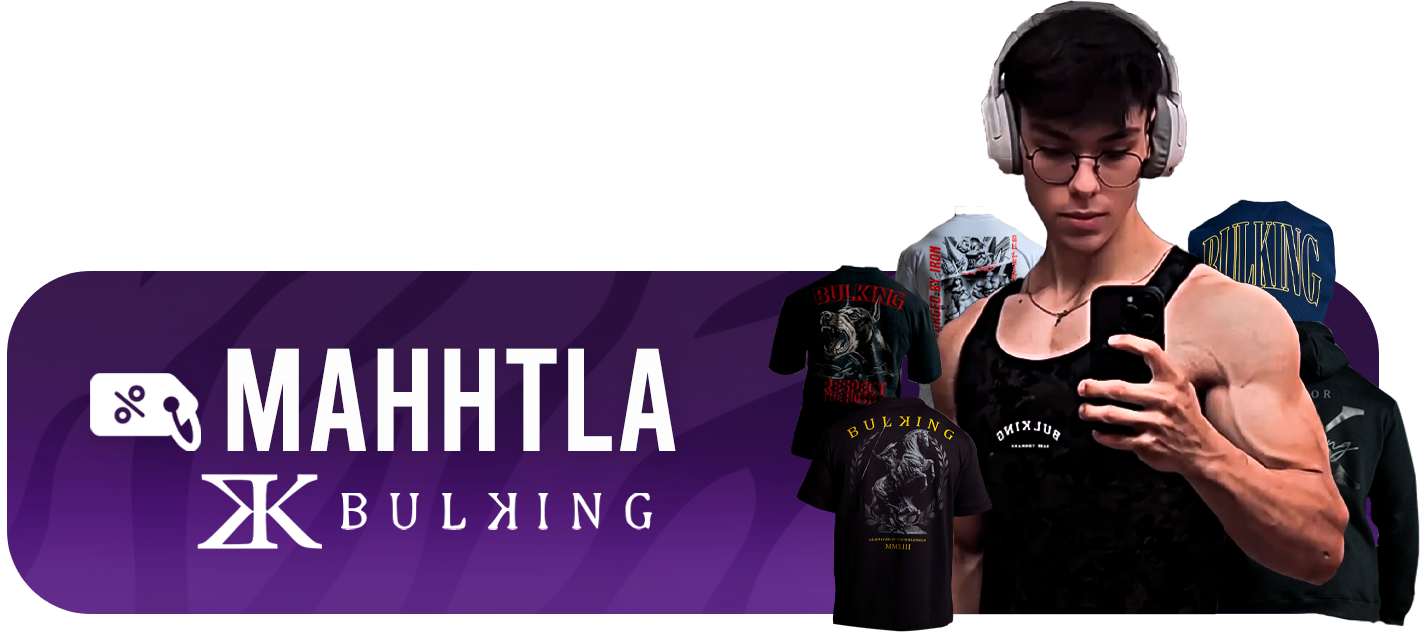
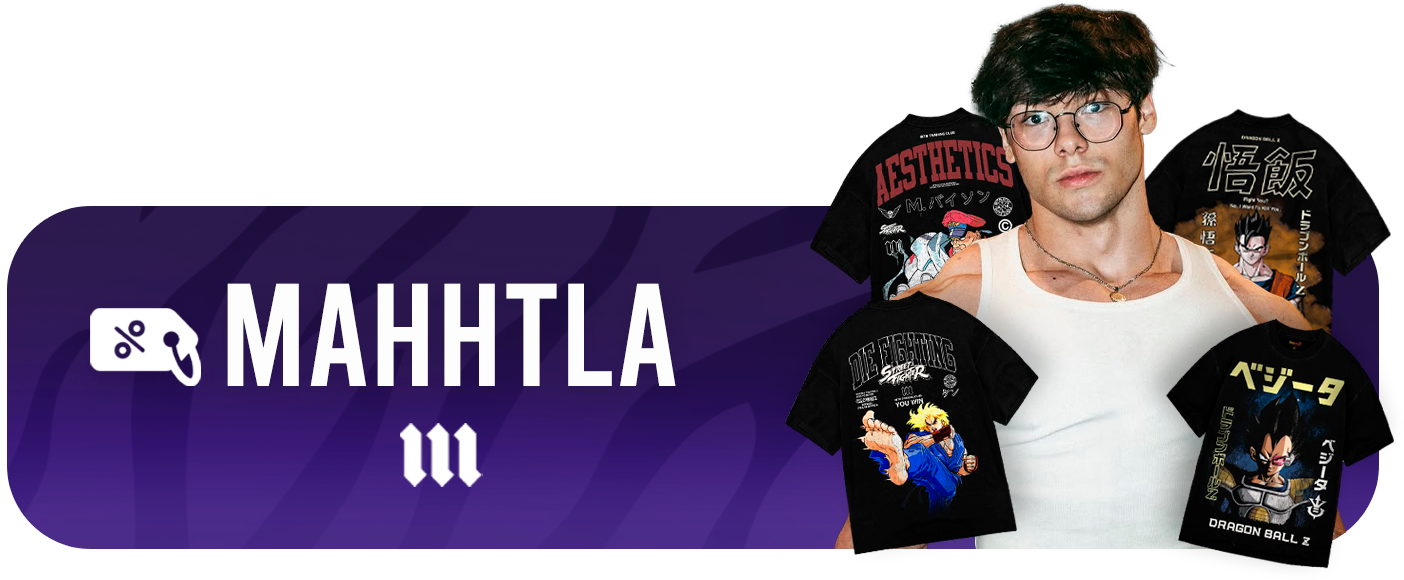
Atualizações: preview, links e assets

diff --git a/index.html b/index.html
@@ -44,7 +44,7 @@
         <!-- Cards de links -->
         <div class="link-cards">
 
-            <a href="https://www.bulking.com.br/" target="_blank">
+            <a href="https://mithoficial.com.br/" target="_blank">
                  <img src="youtube.png" alt="" class="youtube-banner">
              </a>
 
